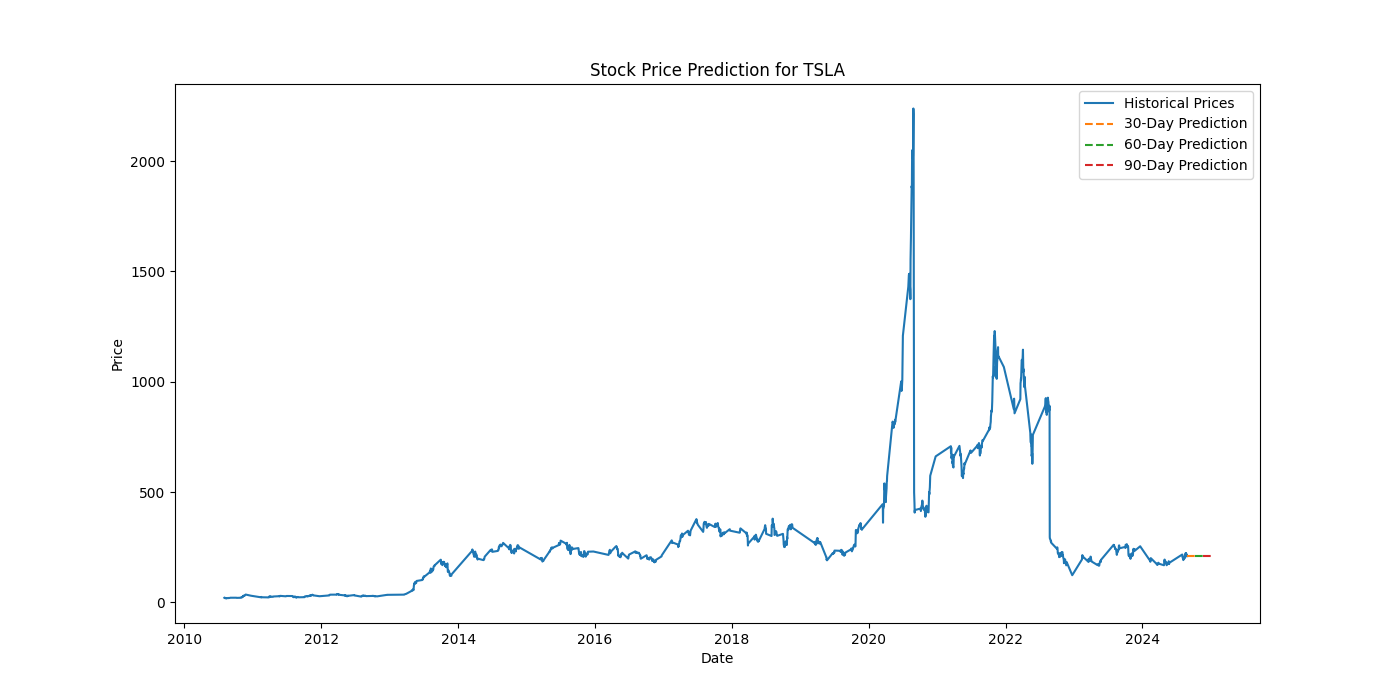
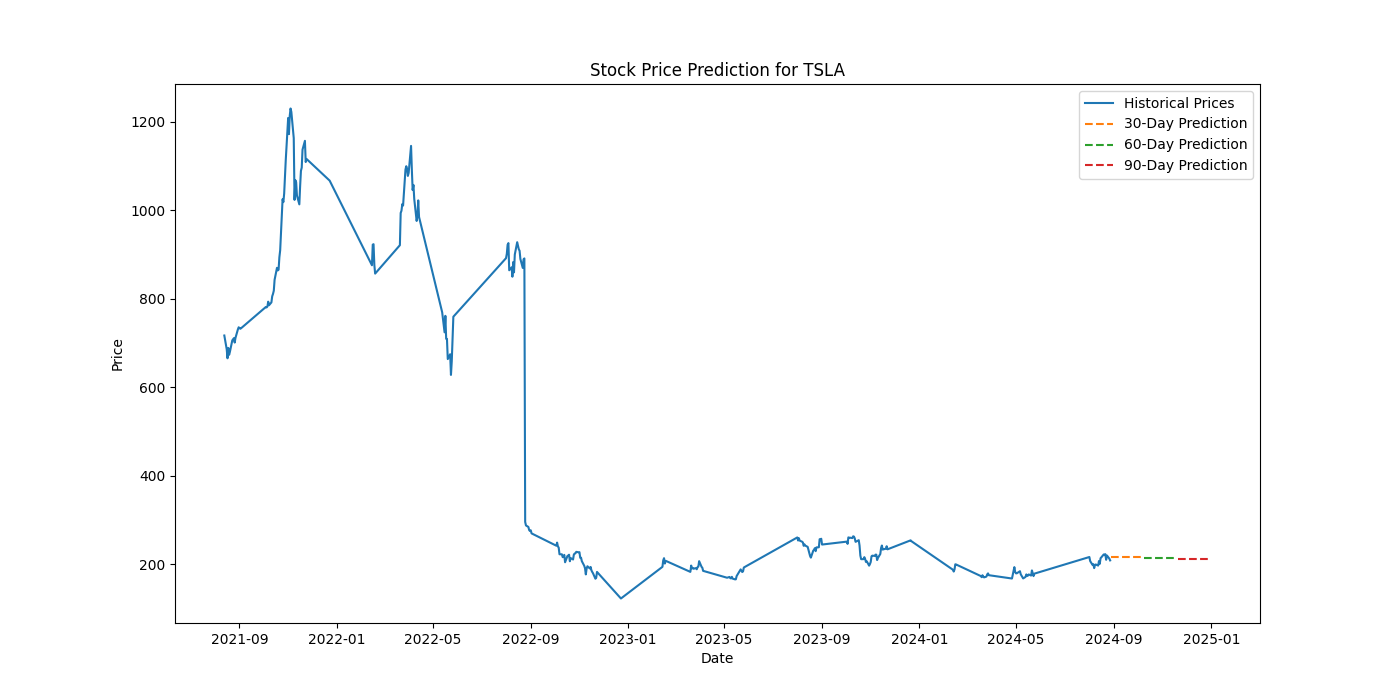
Added current date to stock analysis and enhanced prediction output

diff --git a/app.py b/app.py
@@ -2,8 +2,10 @@ import requests
 import numpy as np
 import pandas as pd
 from flask import Flask, render_template, request
-from sklearn.ensemble import RandomForestRegressor
+from sklearn.ensemble import GradientBoostingRegressor
+from sklearn.preprocessing import StandardScaler
 import matplotlib.pyplot as plt
+from datetime import datetime  # Import for current date
 
 app = Flask(__name__)
 
@@ -23,9 +25,7 @@ def fetch_stock_data(symbol, api_key):
     response = requests.get(url)
     data = response.json()
 
-    # Debugging print statements
-    print(f"API Response: {data}")
-
+    # Check if the data is available
     if "Time Series (Daily)" in data:
         df = pd.DataFrame.from_dict(data["Time Series (Daily)"], orient='index', dtype='float')
         df = df.rename(columns={
@@ -39,8 +39,12 @@ def fetch_stock_data(symbol, api_key):
         df.sort_index(inplace=True)
         df = df.asfreq('B')  # Set frequency to business days
 
+        # Filter the data to include only the last 5 years
+        start_date = pd.Timestamp.today() - pd.DateOffset(years=5)
+        df = df[df.index >= start_date]
+
         # Debugging print to check data
-        print(f"Fetched Data for {symbol}:\n", df.head())
+        print(f"Fetched Data for {symbol} from {start_date.date()} to {df.index[-1].date()}:\n", df.head())
         return df
     else:
         print(f"Error fetching data: {data}")
@@ -109,35 +113,56 @@ def calculate_obv(df):
     obv = (np.sign(df['Close'].diff()) * df['Volume']).fillna(0).cumsum()
     return obv
 
-# Function to predict stock prices using a random forest model
+# Enhance features by adding more indicators
+def enhance_features(df):
+    # Example of additional features
+    df['SMA_50'] = df['Close'].rolling(window=50).mean()
+    df['EMA_100'] = df['Close'].ewm(span=100, adjust=False).mean()
+    df['ATR'] = df['High'] - df['Low']  # Simple example of an Average True Range
+    df['Volatility'] = df['Close'].rolling(window=50).std()  # Rolling volatility
+    
+    df.dropna(inplace=True)  # Drop NaN values
+    return df
+
+# Function to predict stock prices using a gradient boosting model
 def predict_future(df, days):
     df['Date'] = pd.to_datetime(df.index)
     df['Date'] = df['Date'].map(pd.Timestamp.toordinal)
+
+    # Enhance features
+    df = enhance_features(df)
 
     # Define feature columns and target
     feature_columns = [col for col in df.columns if col not in ['Open', 'High', 'Low', 'Volume', 'Close']]
     features = df[feature_columns]
     target = df['Close']
 
-    # Train a RandomForest model
-    model = RandomForestRegressor(n_estimators=100)
-    model.fit(features, target)
+    # Scale the features
+    scaler = StandardScaler()
+    features_scaled = scaler.fit_transform(features)
+
+    # Train a Gradient Boosting model with tuned hyperparameters
+    model = GradientBoostingRegressor(n_estimators=500, max_depth=4, learning_rate=0.01, random_state=42)
+    model.fit(features_scaled, target)
 
     # Predict the future
-    last_row = pd.DataFrame([df.iloc[-1][feature_columns].values], columns=feature_columns)
+    last_row = pd.DataFrame([features.iloc[-1].values], columns=feature_columns)
+    last_row_scaled = scaler.transform(last_row)
     predictions = []
 
     for i in range(1, days + 1):
         future_row = last_row.copy()
         future_row['Date'] += i  # Increment the date
-        pred = model.predict(future_row)
+        future_row_scaled = scaler.transform(future_row)
+        pred = model.predict(future_row_scaled)
         predictions.append(pred[0])
 
     return predictions
 
 # Function to generate a summary of the analysis
 def generate_summary(symbol, next_day, forecast_30, forecast_60, forecast_90, df):
-    summary = f"Stock Analysis for {symbol}:\n"
+    current_date = datetime.now().strftime("%Y-%m-%d")  # Get the current date
+    summary = f"Stock Analysis for {symbol} on {current_date}:\n"  # Include the date in the summary
     summary += f"Predicted price for the next day: ${next_day:.2f}\n"
     summary += f"Predicted price for 30 days: ${forecast_30[-1]:.2f}\n"
     summary += f"Predicted price for 60 days: ${forecast_60[-1]:.2f}\n"
